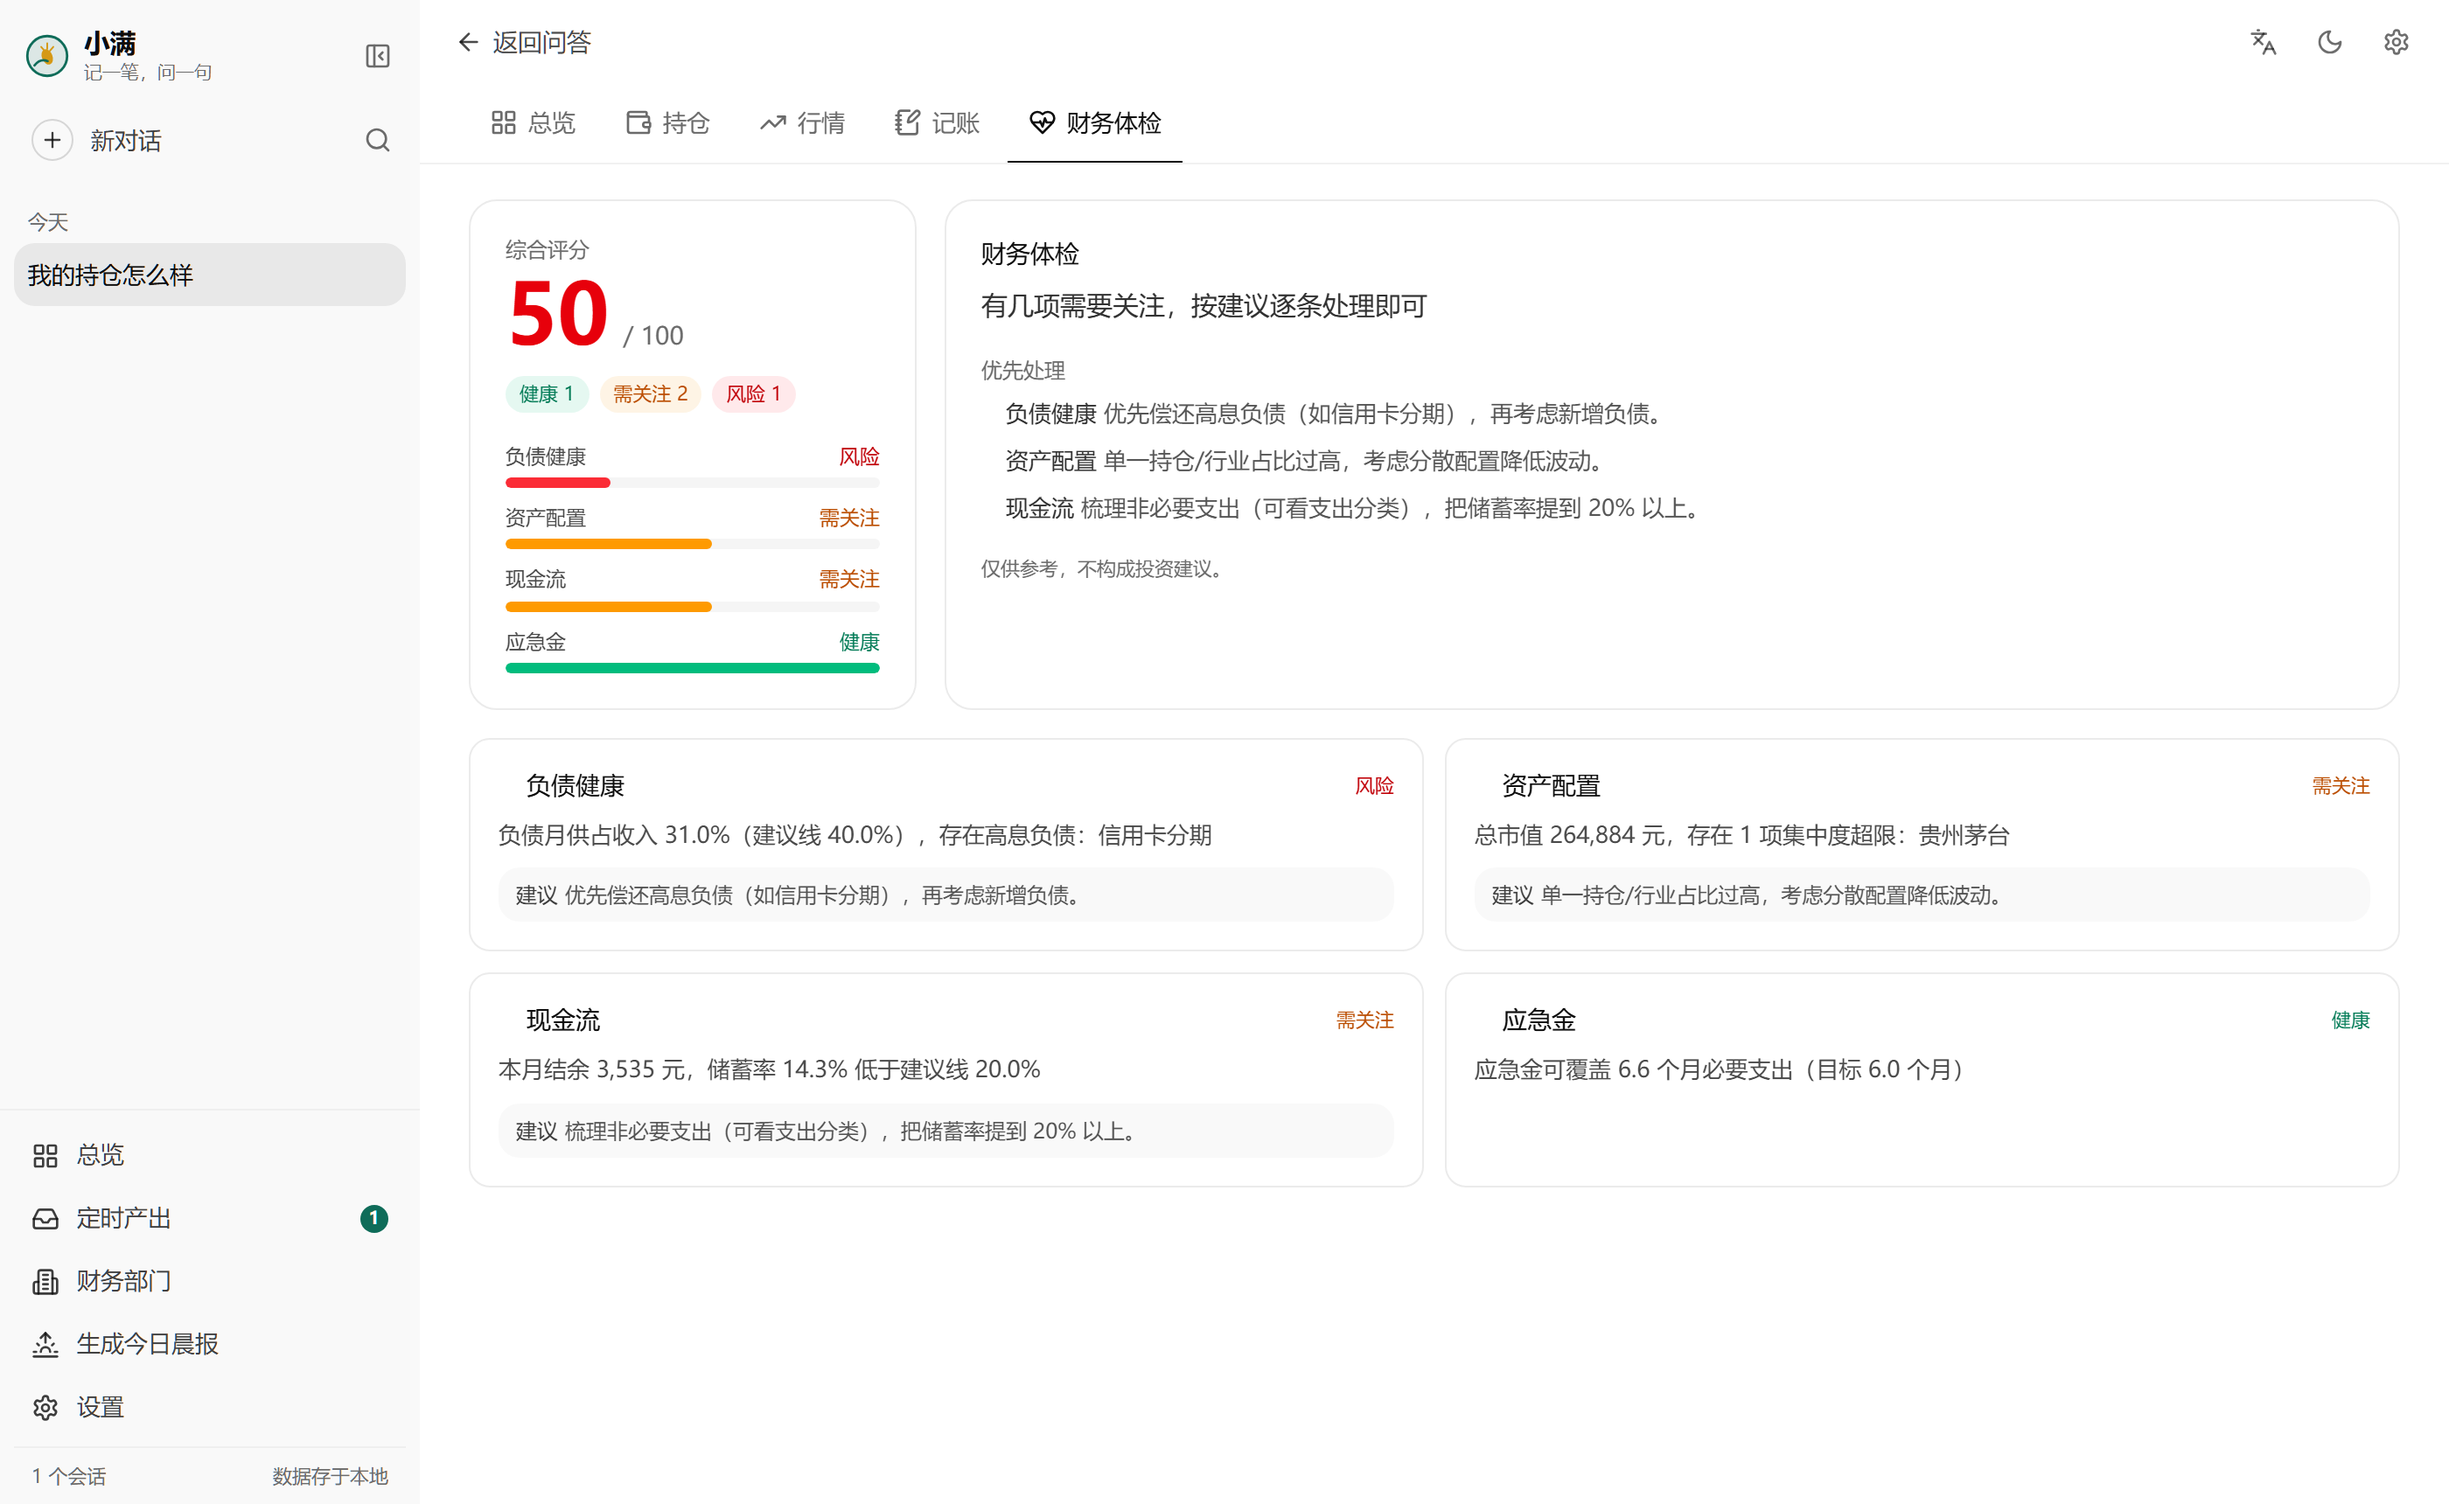
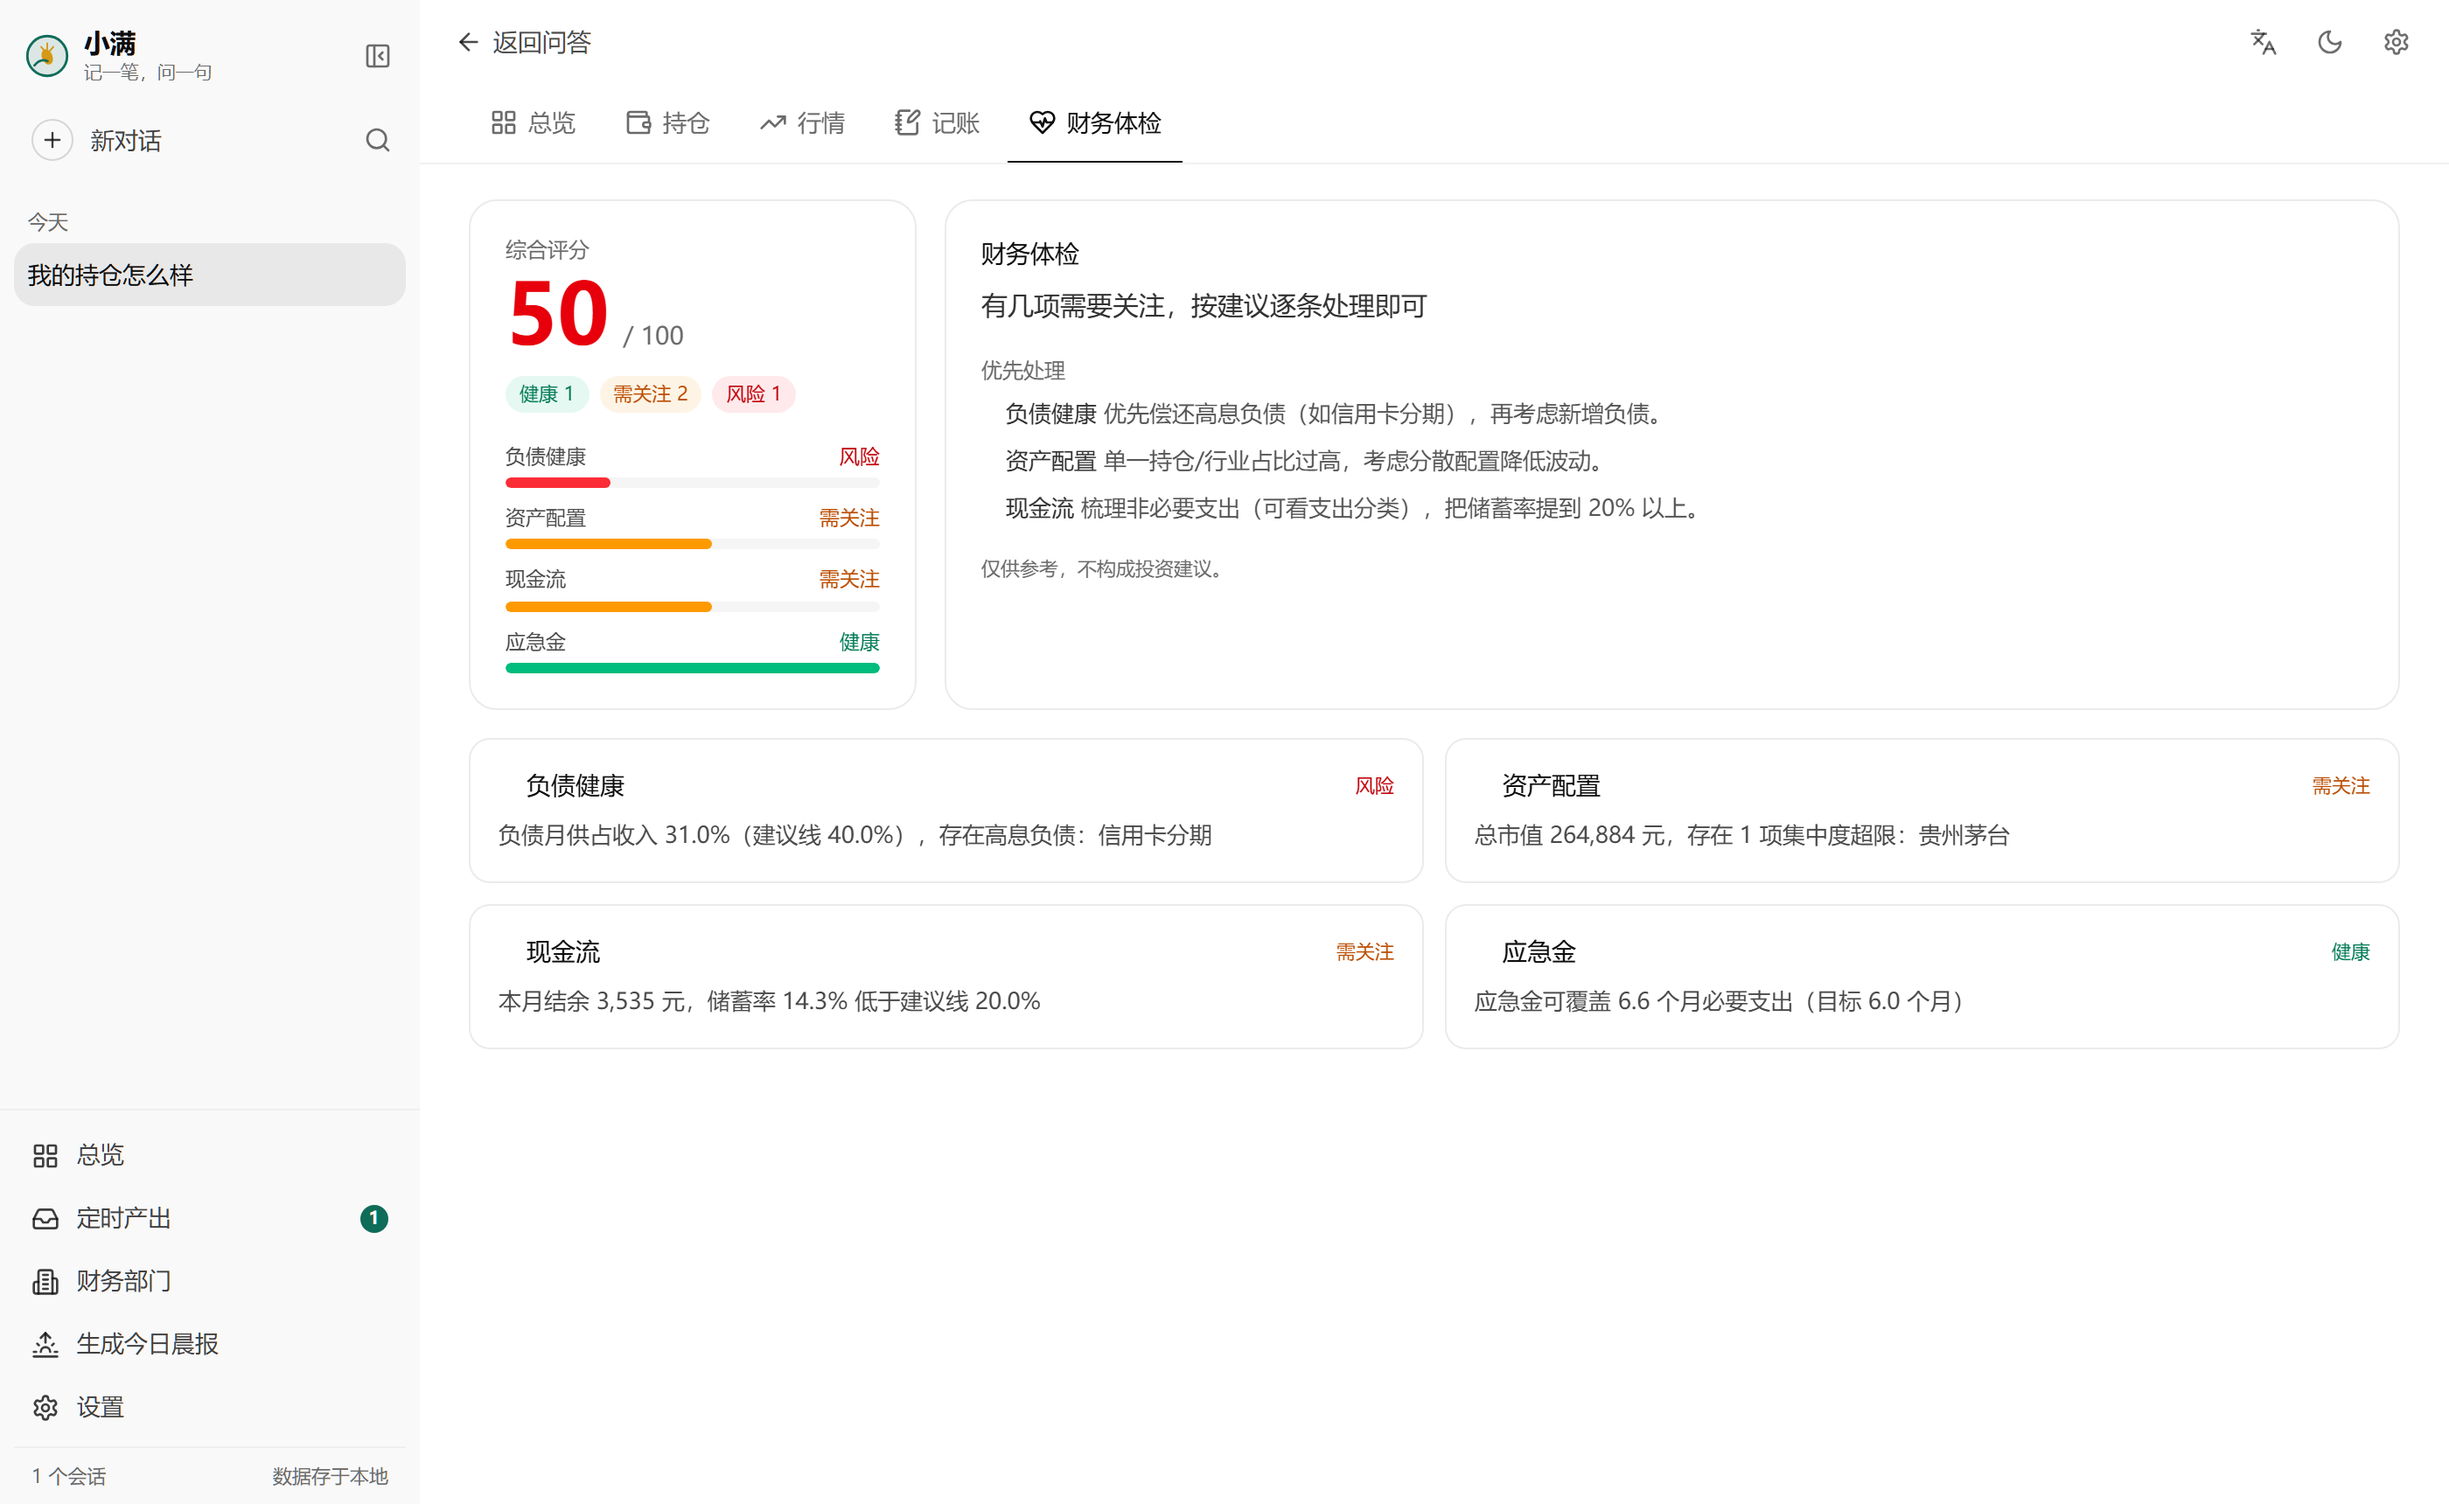
fix(2.9.2): 体检页去重 + 浏览器启动开关 + 收尾清理
- 体检页维度卡不再重复「建议」（优先处理已列出），只保留现状
- run.py 支持 XIAOMAN_NO_BROWSER=1，避免自动化验证弹出系统浏览器；
  打开地址改为读取 PORT（原硬编码 8788）
- 清理开发/演示进程与 out/ 临时产物

Changed region(s): [[0.2175, 0.5855, 0.435, 0.7703], [0.5904, 0.5855, 0.8079, 0.7395], [0.6836, 0.7087, 0.7768, 0.7395]]

diff --git a/frontend/src/components/HealthPage.tsx b/frontend/src/components/HealthPage.tsx
@@ -158,12 +158,6 @@ export function HealthPage() {
                 <span className={cn("ml-auto text-[11px]", STATUS_STYLE[st].text)}>{t(`hc.${st}`)}</span>
               </div>
               <p className="mt-2 text-[13px] leading-relaxed text-foreground/75">{d.detail}</p>
-              {d.suggestion && (
-                <p className="mt-2 rounded-lg bg-muted/60 px-2.5 py-1.5 text-[12px] leading-relaxed text-foreground/70">
-                  <span className="mr-1 font-medium text-foreground/80">{t("hc.suggestion")}</span>
-                  {d.suggestion}
-                </p>
-              )}
             </div>
           );
         })}

diff --git a/backend/run.py b/backend/run.py
@@ -41,10 +41,18 @@ def _safe_console() -> None:
 
 
 def open_browser_later(delay: float = 1.5):
-    """延迟几秒后打开浏览器，等后端起来。"""
+    """延迟几秒后打开浏览器，等后端起来。
+
+    XIAOMAN_NO_BROWSER=1 时跳过：自动化验证/截图流程用 Playwright 自己的浏览器，
+    不应该在用户桌面弹出系统浏览器窗口。
+    """
+    if os.getenv("XIAOMAN_NO_BROWSER", "").strip() in ("1", "true", "yes"):
+        return
+
     def _open():
         time.sleep(delay)
-        webbrowser.open("http://127.0.0.1:8788")
+        webbrowser.open(f"http://127.0.0.1:{os.getenv('PORT', '8788')}")
+
     threading.Thread(target=_open, daemon=True).start()
 
 

diff --git a/backend/app/version.py b/backend/app/version.py
@@ -17,7 +17,7 @@
 from __future__ import annotations
 
 # 当前版本。发版脚本会改写这一行，格式必须保持 `__version__ = "x.y.z"`。
-__version__ = "2.9.1"
+__version__ = "2.9.2"
 
 # 上一版（用于"自上次发版以来的变更"提示；发版脚本自动维护）
 PREVIOUS_VERSION = "2.3.0"

diff --git a/CHANGELOG.md b/CHANGELOG.md
@@ -2,6 +2,13 @@
 
 项目版本号与发布历史。格式遵循 [Keep a Changelog](https://keepachangelog.com/zh-CN/1.0.0/)，版本语义遵循 [Semantic Versioning](https://semver.org/lang/zh-CN/)。
 
+## [2.9.2] - 2026-10-23（收尾：体检页去重 + 浏览器启动开关 + 清理）
+
+- 体检页：下方维度卡不再重复「建议」（上方「优先处理」已列出），只保留现状描述。
+- `run.py` 支持 `XIAOMAN_NO_BROWSER=1`：自动化验证不再弹出系统浏览器；
+  用户双击 exe 时仍自动打开（并把端口改为读取 `PORT`，此前硬编码 8788）。
+- 清理：关闭全部开发/演示服务进程，移除 `out/` 临时截图与演示库、缓存目录。
+
 ## [2.9.1] - 2026-10-23（对话内富回答块 + 上下文条）
 
 > 界面最后一层：让对话里的数字"能操作"，而不是只读文本。
